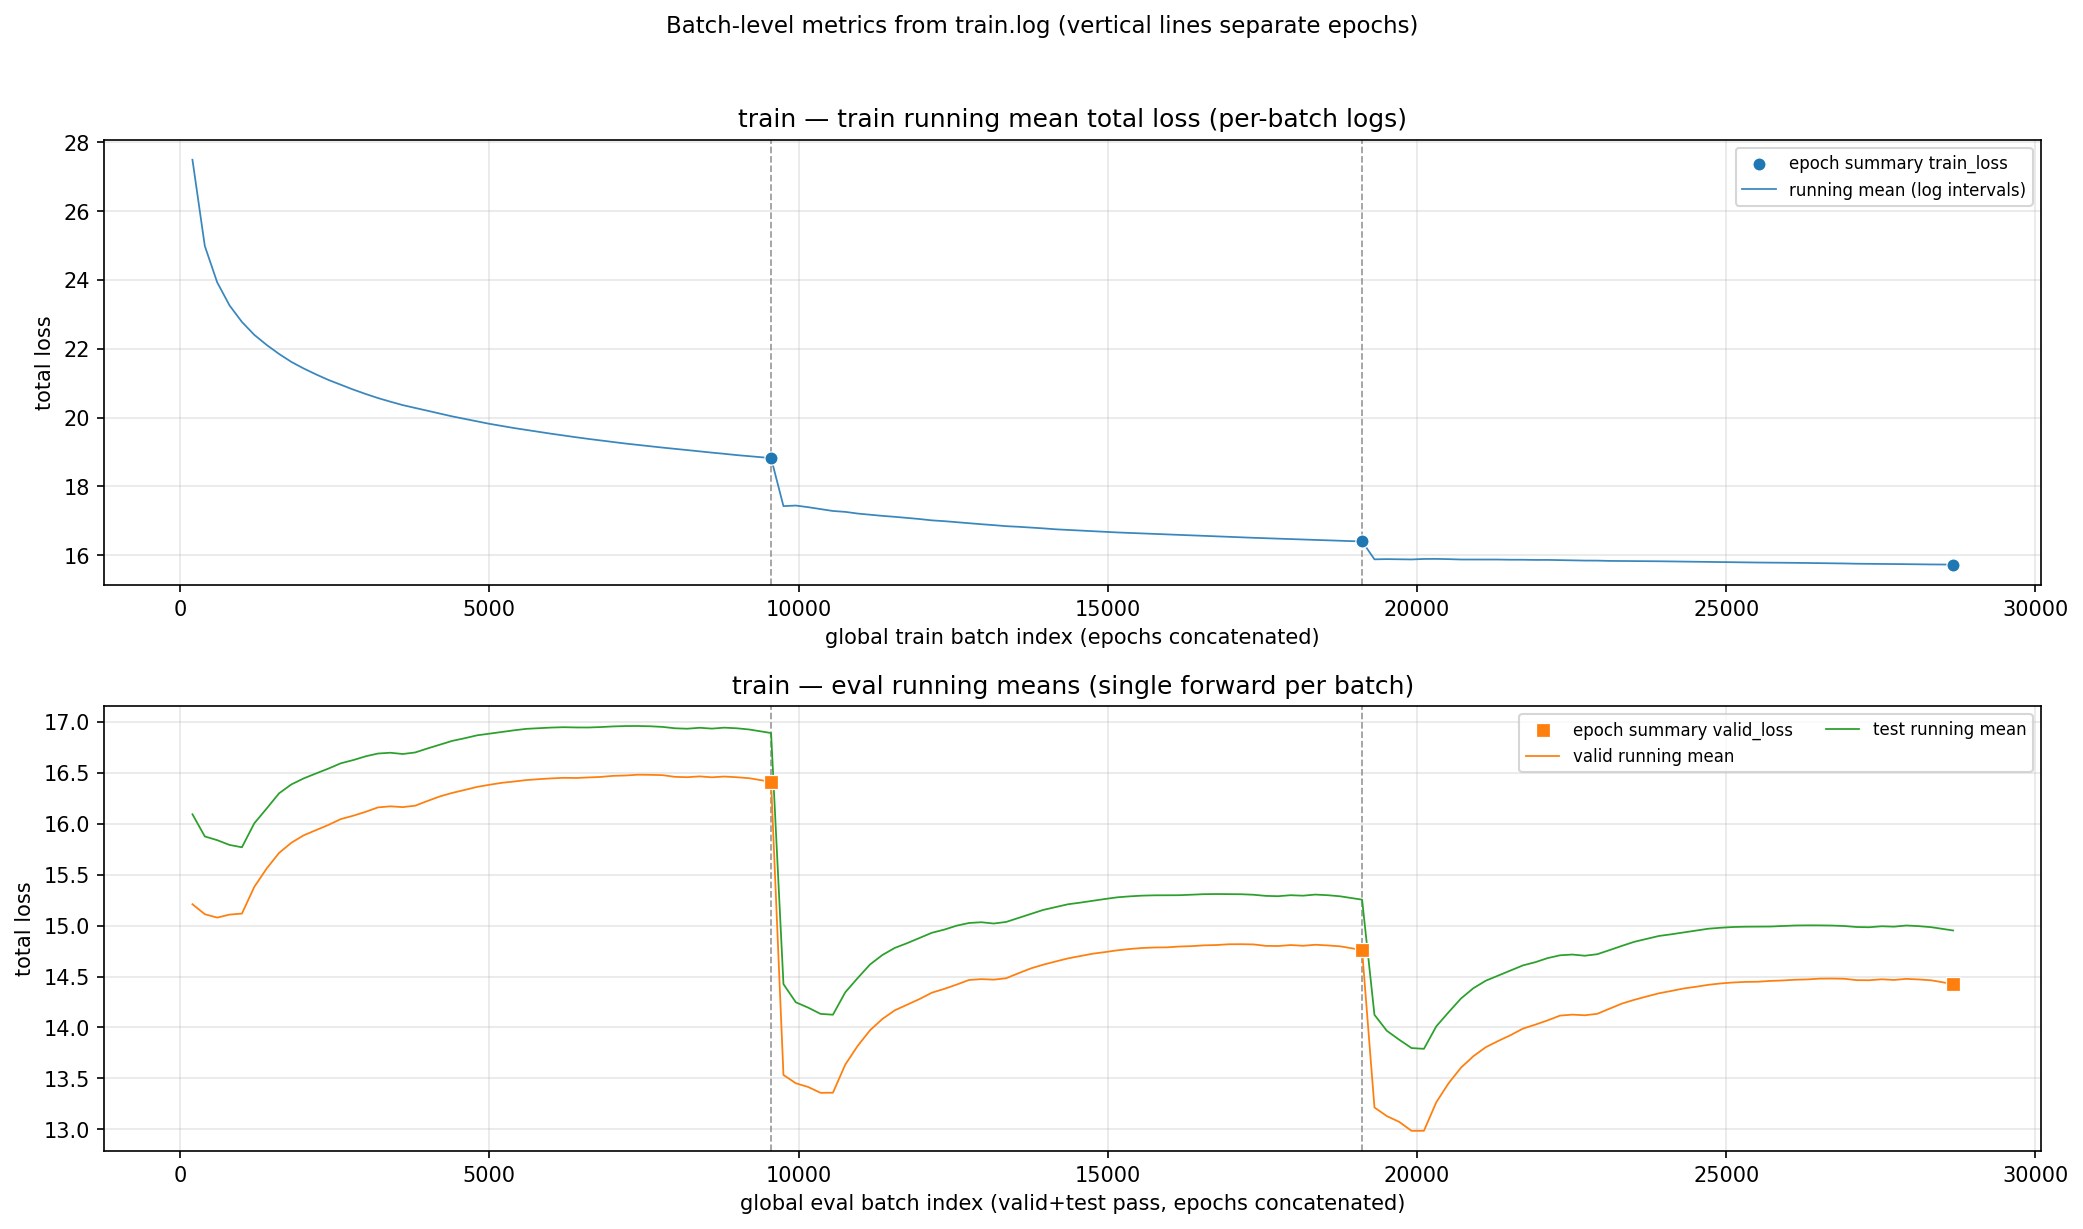
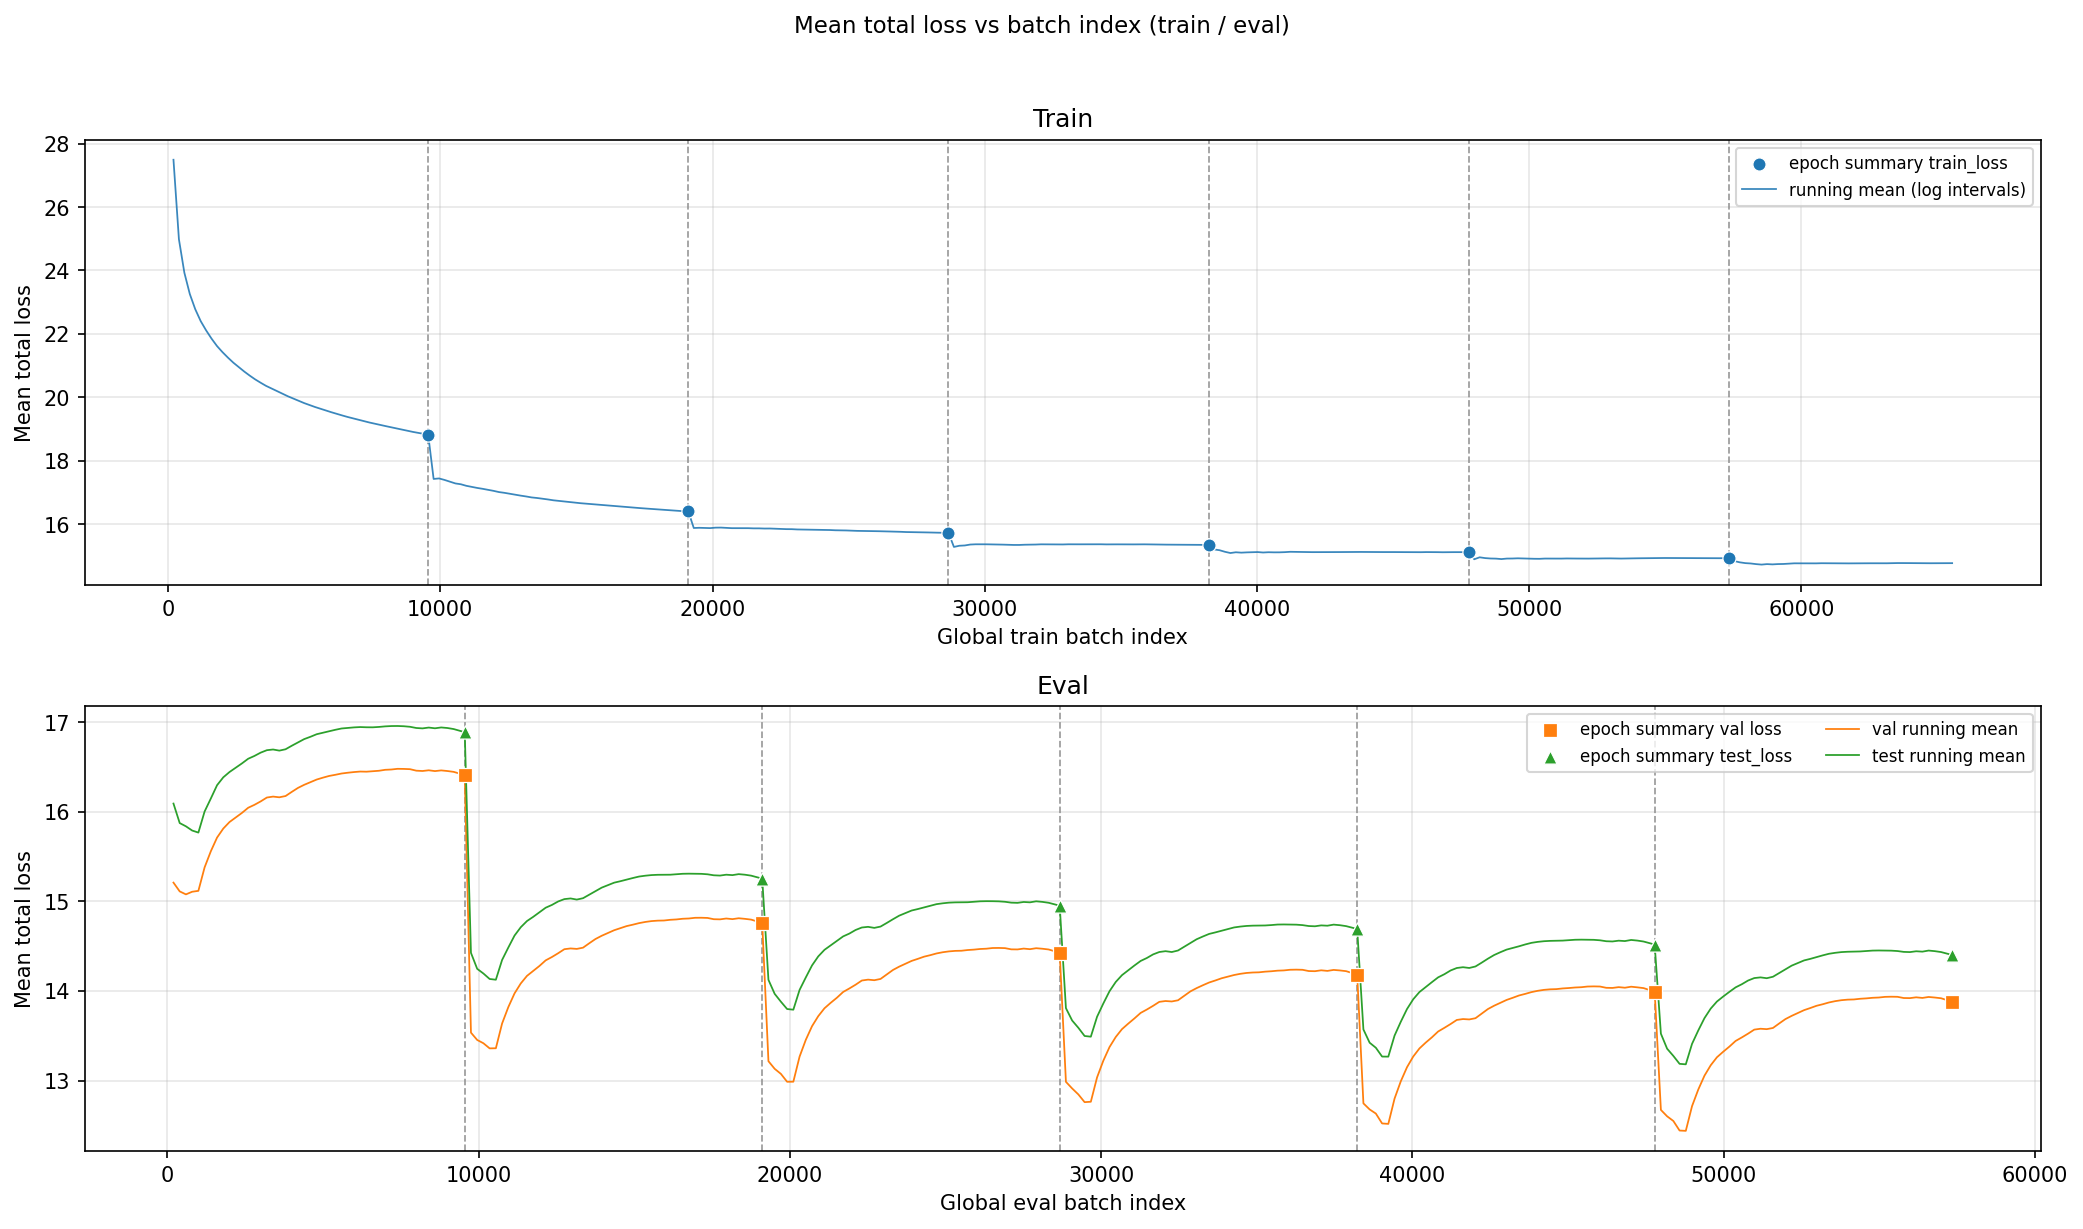
visuals: 6 epochs train/eval

diff --git a/modelling/visualize_train_log.py b/modelling/visualize_train_log.py
@@ -8,7 +8,7 @@ Extracts:
   - Optimizer LR after epoch ...
   - Batch-interval running means (train / valid+test) plus final batch= lines.
   - Plots batch metrics across the full run (global batch index).
-  - From training_history_snapshot.json: per-head top-1 (acc_*) and top-5 (top5_*) curves.
+  - From training_history_snapshot.json: 2x2 Val/Test x top-1 / top-5 accuracy ({stem}_accuracy_level.png).
 """
 
 from __future__ import annotations
@@ -21,14 +21,16 @@ from pathlib import Path
 from typing import Any
 
 import matplotlib.pyplot as plt
+from matplotlib.axes import Axes
 import numpy as np
 
 # Repo root = parent of modelling/; default PNG dir is visuals/gpt_model/
 _DEFAULT_OUTPUT_DIR = Path(__file__).resolve().parent.parent / "visuals" / "gpt_model"
 
+# test_loss may follow as " test_loss=..." (space) or " | test_loss=..." (pipe)
 RE_EPOCH_DONE = re.compile(
     r"Epoch (\d+)/(\d+) done \| train_loss=([\d.eE+-]+) valid_loss=([\w.eE+-/]+)"
-    r"(?:\s+\| test_loss=([\d.eE+-]+))?"
+    r"(?:\s*(?:\|\s*)?test_loss=([\d.eE+-]+))?"
 )
 RE_PER_HEAD = re.compile(
     r"Epoch (\d+)/(\d+) (train|valid|test) \| per-head mean CE: (.+?) \| total=([\d.eE+-]+)"
@@ -183,51 +185,48 @@ def plot_totals_and_lr(
         raise SystemExit("No 'Epoch ... done' lines found in log.")
 
     eps = [r["epoch"] for r in rows]
-    train = [r["train_loss"] for r in rows]
-    valid = [r["valid_loss"] for r in rows]
-    test = [r["test_loss"] for r in rows]
-    has_test = any(t is not None for t in test)
-    has_valid = any(v is not None for v in valid)
+    train = np.array([r["train_loss"] for r in rows], dtype=float)
+    valid = np.array(
+        [r["valid_loss"] if r["valid_loss"] is not None else np.nan for r in rows],
+        dtype=float,
+    )
+    test = np.array(
+        [r["test_loss"] if r["test_loss"] is not None else np.nan for r in rows],
+        dtype=float,
+    )
+    has_valid = bool(np.any(np.isfinite(valid)))
+    has_test = bool(np.any(np.isfinite(test)))
 
-    lr = parsed["lr_after_epoch"]
-    show_lr = bool(lr)
+    fig, ax0 = plt.subplots(1, 1, figsize=(9, 5))
 
-    fig, axes = plt.subplots(2 if show_lr else 1, 1, figsize=(9, 5 if not show_lr else 7.5))
-    if not show_lr:
-        ax0 = axes
-    else:
-        ax0, ax1 = axes
-
-    ax0.plot(eps, train, "o-", label="train", color="C0")
+    ax0.plot(eps, train, "o-", label="Train slice", color="C0")
     if has_valid:
-        ax0.plot(eps, valid, "s-", label="valid", color="C1")
+        ax0.plot(eps, valid, "s-", label="Validation future slice", color="C1")
     if has_test:
-        ax0.plot(eps, test, "^-", label="test", color="C2")
-    ax0.set_xlabel("epoch")
-    ax0.set_ylabel("total loss")
+        ax0.plot(eps, test, "^-", label="Test future slice", color="C2")
+    ax0.set_xlabel("Epoch")
+    ax0.set_ylabel("Mean total cross-entropy loss")
     ax0.set_xticks(eps)
     ax0.grid(True, alpha=0.3)
     ax0.legend(loc="best")
-    ax0.set_title(title or "Epoch totals (from train.log)")
-
-    if show_lr:
-        lr_eps = sorted(lr.keys())
-        ax1.plot(lr_eps, [lr[e] for e in lr_eps], "D-", color="C3")
-        ax1.set_xlabel("epoch (after which LR applies to next epoch)")
-        ax1.set_ylabel("learning rate")
-        ax1.set_yscale("log")
-        ax1.grid(True, alpha=0.3)
+    ax0.set_title(
+        title or "Sequence model improves next-encounter forecasting"
+    )
 
     fig.tight_layout()
     fig.savefig(out_path, dpi=150)
     plt.close(fig)
 
 
+def _split_panel_title(split: str) -> str:
+    return {"train": "Train", "valid": "Val", "test": "Test"}.get(split, split)
+
+
 def plot_per_head_lines(
     per_head: dict[str, dict[str, dict[int, float]]],
     splits: list[str],
     out_path: Path,
-    title_prefix: str,
+    _title_prefix: str,
 ) -> None:
     all_heads: set[str] = set()
     for sp in splits:
@@ -261,8 +260,8 @@ def plot_per_head_lines(
                 continue
             ys = [sub[h].get(e, np.nan) for e in eps]
             ax.plot(eps, ys, "o-", label=h, color=colors[h], linewidth=1.2, markersize=3)
-        ax.set_ylabel("mean CE")
-        ax.set_title(f"{title_prefix} — {split}")
+        ax.set_ylabel("Mean cross-entropy")
+        ax.set_title(_split_panel_title(split))
         ax.grid(True, alpha=0.3)
         ax.set_xticks(eps)
 
@@ -279,7 +278,7 @@ def plot_per_head_lines(
 def plot_full_run_batch_series(
     parsed: dict[str, Any],
     out_path: Path,
-    stem: str,
+    _stem: str,
 ) -> None:
     """Train and eval running means vs global batch index (each phase uses its own batch counter)."""
     train_by_ep = parsed["train_batch_curves"]
@@ -325,9 +324,9 @@ def plot_full_run_batch_series(
 
     if gx:
         ax.plot(gx, gy, "-", color="C0", lw=0.85, alpha=0.88, label="running mean (log intervals)")
-    ax.set_ylabel("total loss")
-    ax.set_xlabel("global train batch index (epochs concatenated)")
-    ax.set_title(f"{stem} — train running mean total loss (per-batch logs)")
+    ax.set_ylabel("Mean total loss")
+    ax.set_xlabel("Global train batch index")
+    ax.set_title("Train")
     ax.grid(True, alpha=0.3)
     handles, labels = ax.get_legend_handles_labels()
     ax.legend(
@@ -366,7 +365,7 @@ def plot_full_run_batch_series(
                     marker="s",
                     edgecolors="white",
                     linewidths=0.6,
-                    label="epoch summary valid_loss" if i == 0 else "",
+                    label="epoch summary val loss" if i == 0 else "",
                 )
             if row.get("test_loss") is not None:
                 ax2.scatter(
@@ -385,11 +384,11 @@ def plot_full_run_batch_series(
             ax2.axvline(offset_e, color="0.55", ls="--", lw=0.85, alpha=0.85)
 
     if gx2:
-        ax2.plot(gx2, gv, "-", color="C1", lw=0.85, label="valid running mean")
+        ax2.plot(gx2, gv, "-", color="C1", lw=0.85, label="val running mean")
         ax2.plot(gx2, gt, "-", color="C2", lw=0.85, label="test running mean")
-    ax2.set_ylabel("total loss")
-    ax2.set_xlabel("global eval batch index (valid+test pass, epochs concatenated)")
-    ax2.set_title(f"{stem} — eval running means (single forward per batch)")
+    ax2.set_ylabel("Mean total loss")
+    ax2.set_xlabel("Global eval batch index")
+    ax2.set_title("Eval")
     ax2.grid(True, alpha=0.3)
     h2, l2 = ax2.get_legend_handles_labels()
     ax2.legend(
@@ -401,7 +400,7 @@ def plot_full_run_batch_series(
     )
 
     fig.suptitle(
-        "Batch-level metrics from train.log (vertical lines separate epochs)",
+        "Mean total loss vs batch index (train / eval)",
         fontsize=11,
         y=1.02,
     )
@@ -436,42 +435,106 @@ def _snapshot_metric_series(
     return out
 
 
-def plot_snapshot_prefix_metrics(
+def _plot_snapshot_metrics_on_ax(
+    ax: Axes,
+    eps: list[int],
+    bundle: dict[str, list[float | None]],
+    *,
+    title: str,
+    y_axis_label: str,
+    legend_strip: str,
+) -> bool:
+    if not bundle:
+        ax.set_visible(False)
+        return False
+    for i, (name, ys) in enumerate(bundle.items()):
+        lab = name[len(legend_strip) :] if name.startswith(legend_strip) else name
+        ax.plot(eps, ys, "o-", label=lab, color=f"C{i % 10}")
+    ax.set_title(title)
+    ax.set_xlabel("epoch")
+    ax.set_ylabel(y_axis_label)
+    ax.set_xticks(eps)
+    ax.grid(True, alpha=0.3)
+    ax.legend(loc="center left", bbox_to_anchor=(1.02, 0.5), fontsize=7)
+    return True
+
+
+def plot_snapshot_top1_top5_2x2(
     snapshot: list[dict[str, Any]],
     out_path: Path,
-    *,
-    key_prefix: str,
-    legend_strip: str,
-    panel_title_metric: str,
-    y_axis_label: str,
 ) -> bool:
-    """Plot valid/test panels for snapshot keys starting with key_prefix. Returns True if a file was written."""
+    """2x2 grid: Val/Test x top-1 / top-5 accuracy from snapshot. Returns True if a file was written."""
     eps = [row["epoch"] for row in snapshot if isinstance(row.get("epoch"), int)]
     if not eps:
         return False
 
-    m_v = _snapshot_metric_series(snapshot, key_prefix, "valid")
-    m_t = _snapshot_metric_series(snapshot, key_prefix, "test")
-    if not m_v and not m_t:
+    m_v_acc = _snapshot_metric_series(snapshot, "acc_", "valid")
+    m_t_acc = _snapshot_metric_series(snapshot, "acc_", "test")
+    m_v_top = _snapshot_metric_series(snapshot, "top5_", "valid")
+    m_t_top = _snapshot_metric_series(snapshot, "top5_", "test")
+    if not (m_v_acc or m_t_acc or m_v_top or m_t_top):
         return False
 
-    fig, axes = plt.subplots(1, 2, figsize=(14, 5), sharey=True)
-    for ax, split, bundle in (
-        (axes[0], "valid", m_v),
-        (axes[1], "test", m_t),
-    ):
-        if not bundle:
-            ax.set_visible(False)
-            continue
-        for i, (name, ys) in enumerate(bundle.items()):
-            lab = name[len(legend_strip) :] if name.startswith(legend_strip) else name
-            ax.plot(eps, ys, "o-", label=lab, color=f"C{i % 10}")
-        ax.set_title(f"{split} {panel_title_metric} (from snapshot)")
-        ax.set_xlabel("epoch")
-        ax.set_ylabel(y_axis_label)
-        ax.set_xticks(eps)
-        ax.grid(True, alpha=0.3)
-        ax.legend(loc="center left", bbox_to_anchor=(1.02, 0.5), fontsize=7)
+    fig, axes = plt.subplots(2, 2, figsize=(14, 9), sharex="col")
+    any_acc = _plot_snapshot_metrics_on_ax(
+        axes[0, 0],
+        eps,
+        m_v_acc,
+        title="Val — top-1 accuracy",
+        y_axis_label="accuracy",
+        legend_strip="acc_",
+    )
+    any_acc_t = _plot_snapshot_metrics_on_ax(
+        axes[0, 1],
+        eps,
+        m_t_acc,
+        title="Test — top-1 accuracy",
+        y_axis_label="accuracy",
+        legend_strip="acc_",
+    )
+    if any_acc and any_acc_t:
+        y0 = min(
+            y
+            for ax in (axes[0, 0], axes[0, 1])
+            for y in ax.get_ylim()
+        )
+        y1 = max(
+            y
+            for ax in (axes[0, 0], axes[0, 1])
+            for y in ax.get_ylim()
+        )
+        for ax in (axes[0, 0], axes[0, 1]):
+            ax.set_ylim(y0, y1)
+
+    any_t5v = _plot_snapshot_metrics_on_ax(
+        axes[1, 0],
+        eps,
+        m_v_top,
+        title="Val — top-5 accuracy",
+        y_axis_label="accuracy",
+        legend_strip="top5_",
+    )
+    any_t5t = _plot_snapshot_metrics_on_ax(
+        axes[1, 1],
+        eps,
+        m_t_top,
+        title="Test — top-5 accuracy",
+        y_axis_label="accuracy",
+        legend_strip="top5_",
+    )
+    if any_t5v and any_t5t:
+        y0 = min(
+            y
+            for ax in (axes[1, 0], axes[1, 1])
+            for y in ax.get_ylim()
+        )
+        y1 = max(
+            y
+            for ax in (axes[1, 0], axes[1, 1])
+            for y in ax.get_ylim()
+        )
+        for ax in (axes[1, 0], axes[1, 1]):
+            ax.set_ylim(y0, y1)
 
     fig.tight_layout()
     fig.savefig(out_path, dpi=150, bbox_inches="tight")
@@ -499,7 +562,7 @@ def main() -> None:
         "--title",
         type=str,
         default=None,
-        help="Title for the totals plot",
+        help="Title for the totals plot (default: sequence-model headline)",
     )
     ap.add_argument(
         "--snapshot",
@@ -557,21 +620,9 @@ def main() -> None:
     if snap_path is not None:
         snap = load_snapshot_metrics(snap_path.resolve())
         if snap:
-            plot_snapshot_prefix_metrics(
+            plot_snapshot_top1_top5_2x2(
                 snap,
-                out_dir / f"{stem}_accuracy_snapshot.png",
-                key_prefix="acc_",
-                legend_strip="acc_",
-                panel_title_metric="top-1 accuracy",
-                y_axis_label="accuracy",
-            )
-            plot_snapshot_prefix_metrics(
-                snap,
-                out_dir / f"{stem}_top5_snapshot.png",
-                key_prefix="top5_",
-                legend_strip="top5_",
-                panel_title_metric="top-5 accuracy",
-                y_axis_label="accuracy",
+                out_dir / f"{stem}_accuracy_level.png",
             )
 
     print(f"Wrote plots under {out_dir}")
